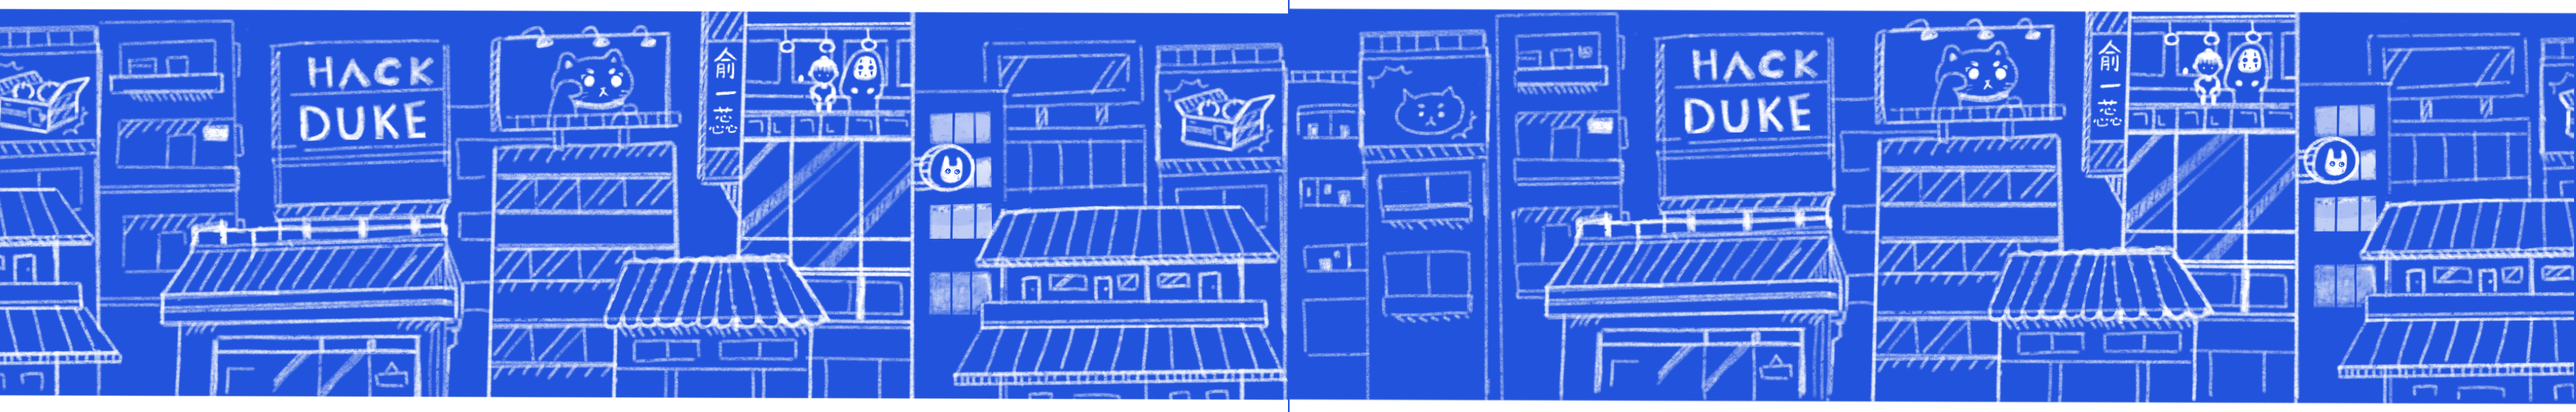
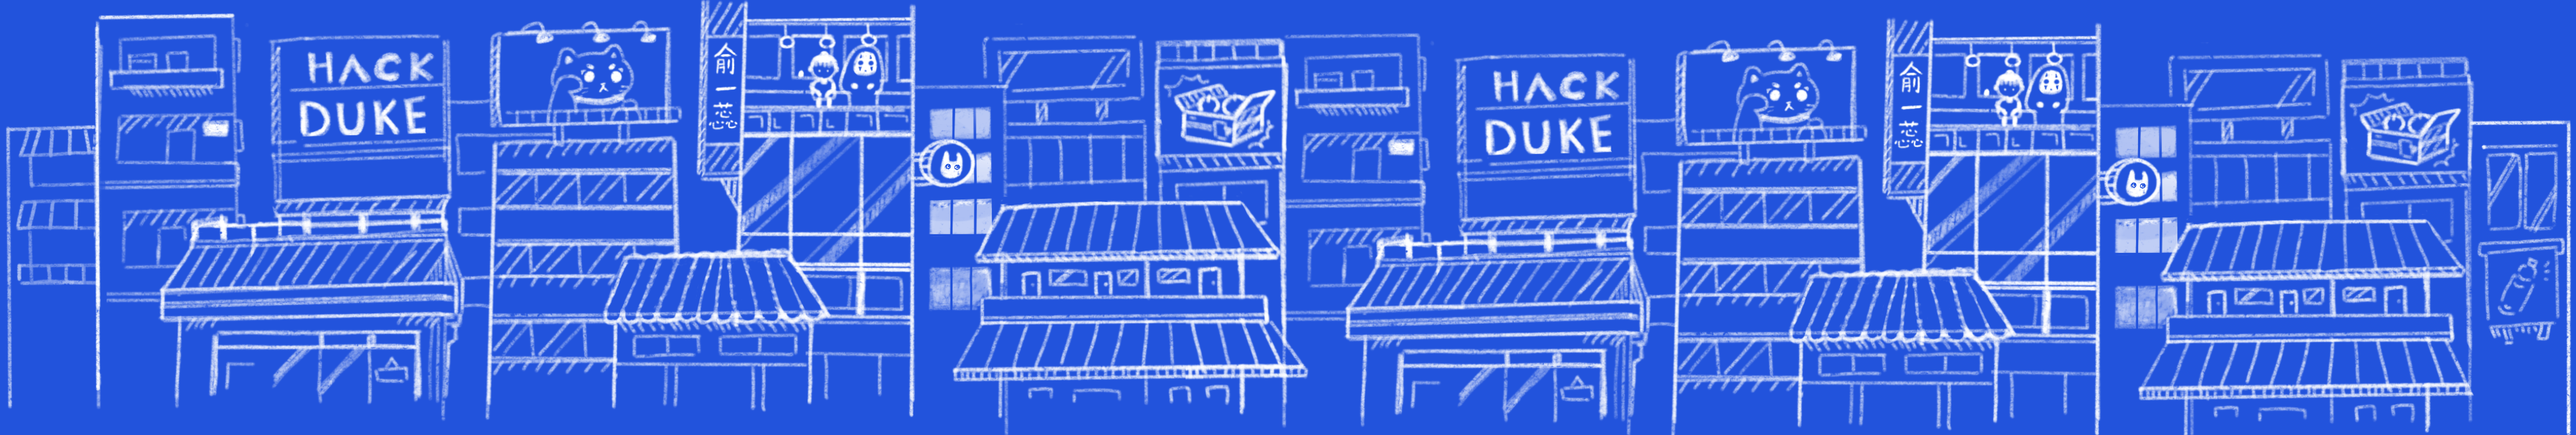
small tweaks for parallax effect: fixed the effect so it's smoother, depedent on stamping action + triggers only after train slides in

diff --git a/src/js/ticket.js b/src/js/ticket.js
@@ -112,8 +112,16 @@ function doStamp(e) {
   const exploreIndicatorAt = passengerRevealAt + PASSENGER_TO_EXPLORE_PAUSE;
 
   const trainLayer = document.getElementById('layer-train');
+  const buildingsLayer = document.getElementById('layer-buildings');
   if (trainLayer) {
-    setTimeout(() => trainLayer.classList.add('arrived'), STAMP_TO_TRAIN_DELAY);
+    setTimeout(() => {
+      trainLayer.classList.add('arrived');
+    }, STAMP_TO_TRAIN_DELAY);
+  }
+  if (buildingsLayer) {
+    setTimeout(() => {
+      buildingsLayer.classList.add('scrolling');
+    }, trainArrivedAt + 1500);
   }
 
   const passengerLayer = document.getElementById('layer-passenger');
@@ -270,6 +278,9 @@ function resetTicket() {
 
   const trainLayer = document.getElementById('layer-train');
   if (trainLayer) trainLayer.classList.remove('arrived');
+
+  const buildingsLayer = document.getElementById('layer-buildings');
+  if (buildingsLayer) buildingsLayer.classList.remove('scrolling');
 
   const passengerLayer = document.getElementById('layer-passenger');
   if (passengerLayer) passengerLayer.classList.remove('revealed');

diff --git a/src/css/layout.css b/src/css/layout.css
@@ -486,8 +486,12 @@ span.train-nav__label {
   background-image: url('/buildings-strip.png');
   background-repeat: repeat-x;
   background-position: center 15%;
-  background-size: auto 45%;
+  background-size: auto 50%;
   animation: buildingsScroll 25s linear infinite;
+  animation-play-state: paused;
+}
+.layer-buildings.scrolling {
+  animation-play-state: running;
 }
 
 @keyframes buildingsScroll {
